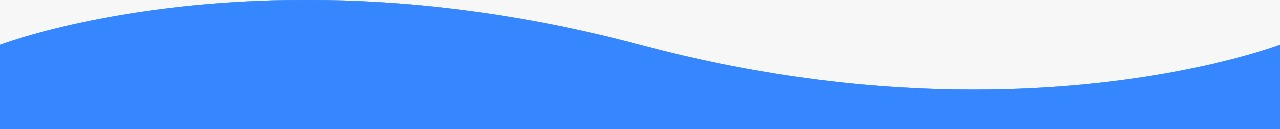
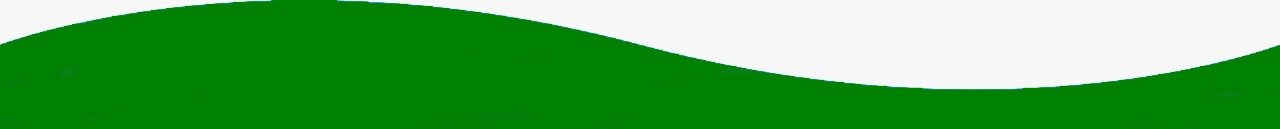
change footer color

diff --git a/src/pages/components/footer/Footer.css b/src/pages/components/footer/Footer.css
@@ -1,5 +1,5 @@
 footer {
-    background: #3586ff;
+    background: green;
     padding: 20px 40px;
     display: flex;
     flex-direction: column;
